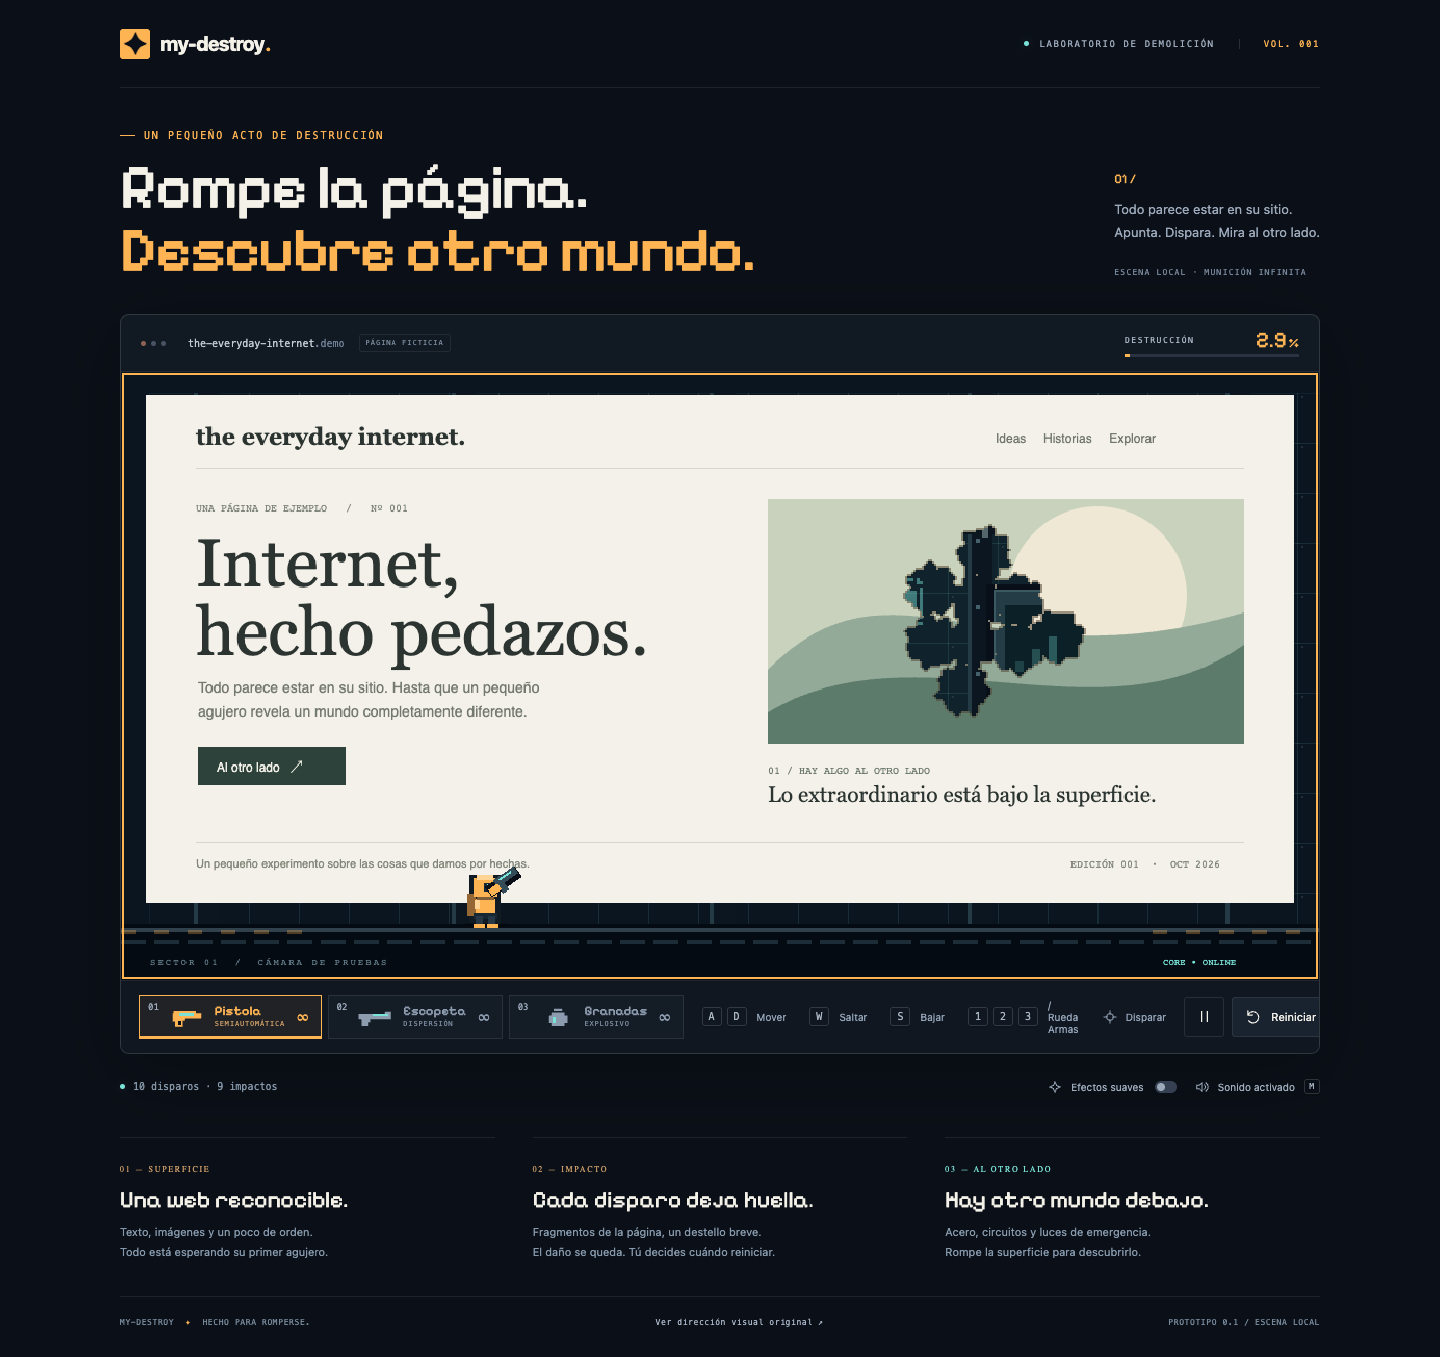
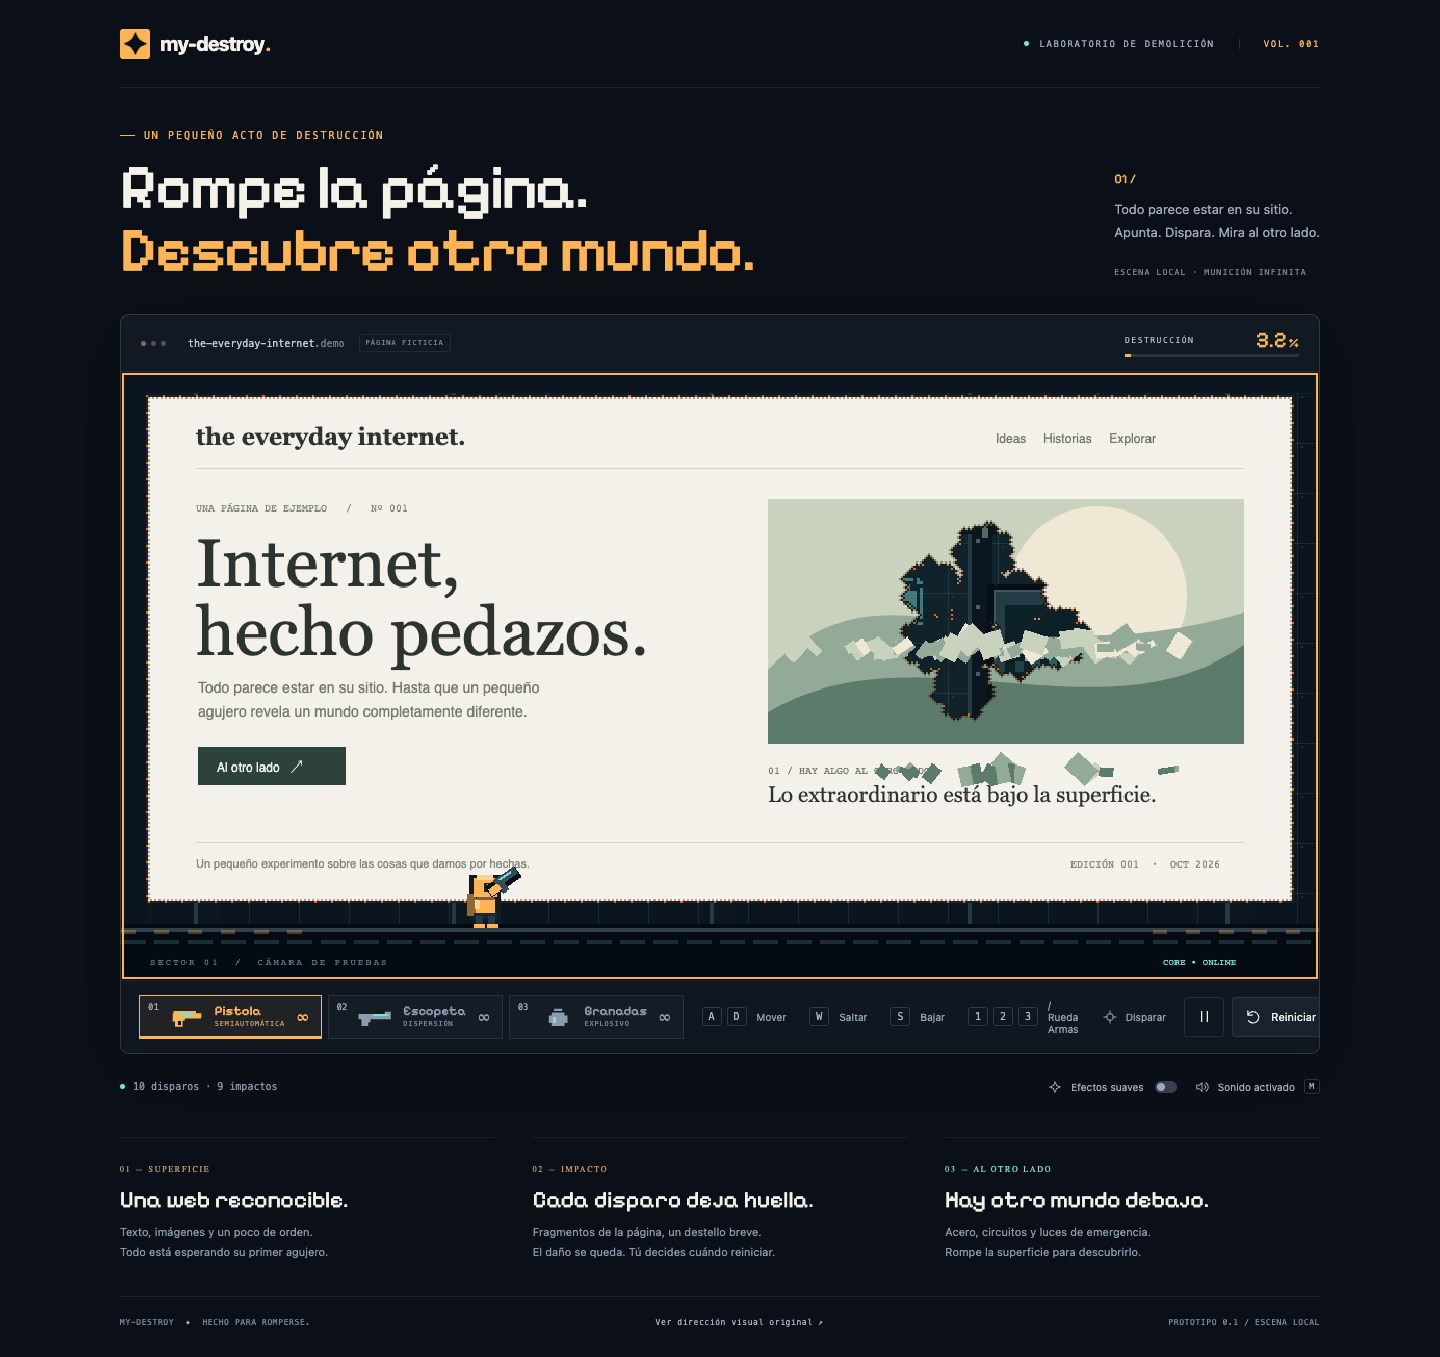
test: anadir prueba e2e de fractura triangular y acumulacion de escombros en pasarela

Changed region(s): [[0.5312, 0.3714, 0.8438, 0.5262], [0.625, 0.5571, 0.7812, 0.5881]]

diff --git a/tests/scene.spec.ts b/tests/scene.spec.ts
@@ -155,4 +155,36 @@ test('weapon arsenal switches via hotkeys/UI and supports shotgun spread and gre
   await expect(page.locator('.weapon-slot[data-active="true"]')).toContainText('Pistola');
 });
 
+test('polygonal debris fractures with Delaunator and accumulates physically via Rapier2D on floor and platforms', async ({ page }) => {
+  await page.goto('/');
+  await expect(page.getByRole('button', { name: 'Reiniciar' })).toBeEnabled();
+  await expect(page.locator('canvas')).toHaveCount(1);
+  await page.locator('canvas').focus();
+
+  // Initial state has 0 debris
+  let state = await snapshot(page);
+  expect(state.debris).toBe(0);
+
+  // Fire at page to cause destruction and triangular fracture
+  await fire(page, 750, 220);
+  await expect.poll(async () => (await snapshot(page)).hits).toBe(1);
+
+  // Debris pieces should have spawned
+  await expect.poll(async () => (await snapshot(page)).debris).toBeGreaterThan(0);
+  const debrisCount = (await snapshot(page)).debris;
+
+  // Wait 1.2 seconds for Rapier2D to simulate dynamic fall and stacking onto catwalk/platforms
+  await page.waitForTimeout(1200);
+
+  // The debris should remain accumulated in place (not deleted after 300ms like simple particles)
+  state = await snapshot(page);
+  expect(state.debris).toBeGreaterThanOrEqual(debrisCount);
+
+  // Reiniciar resets the scene and cleans all debris bodies and textures
+  await page.getByRole('button', { name: 'Reiniciar' }).click();
+  state = await snapshot(page);
+  expect(state.debris).toBe(0);
+});
+
+
 
